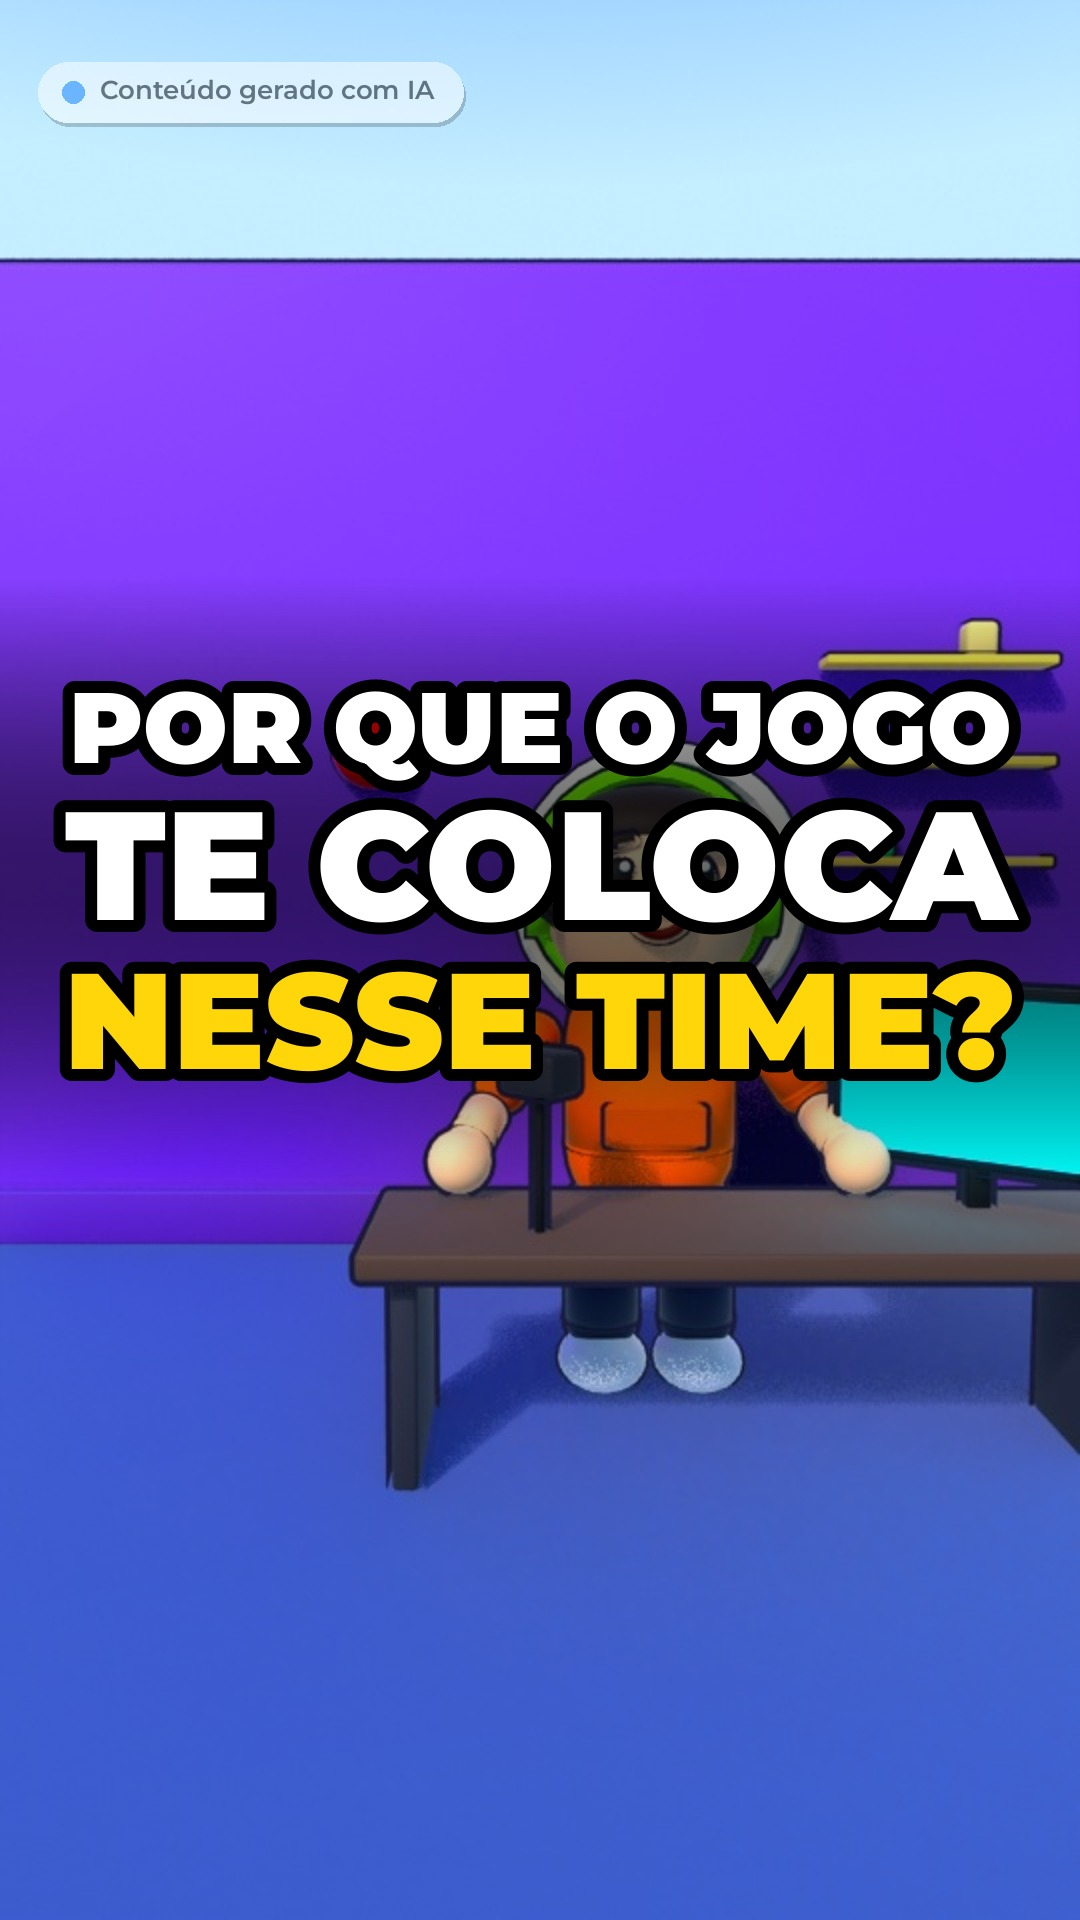
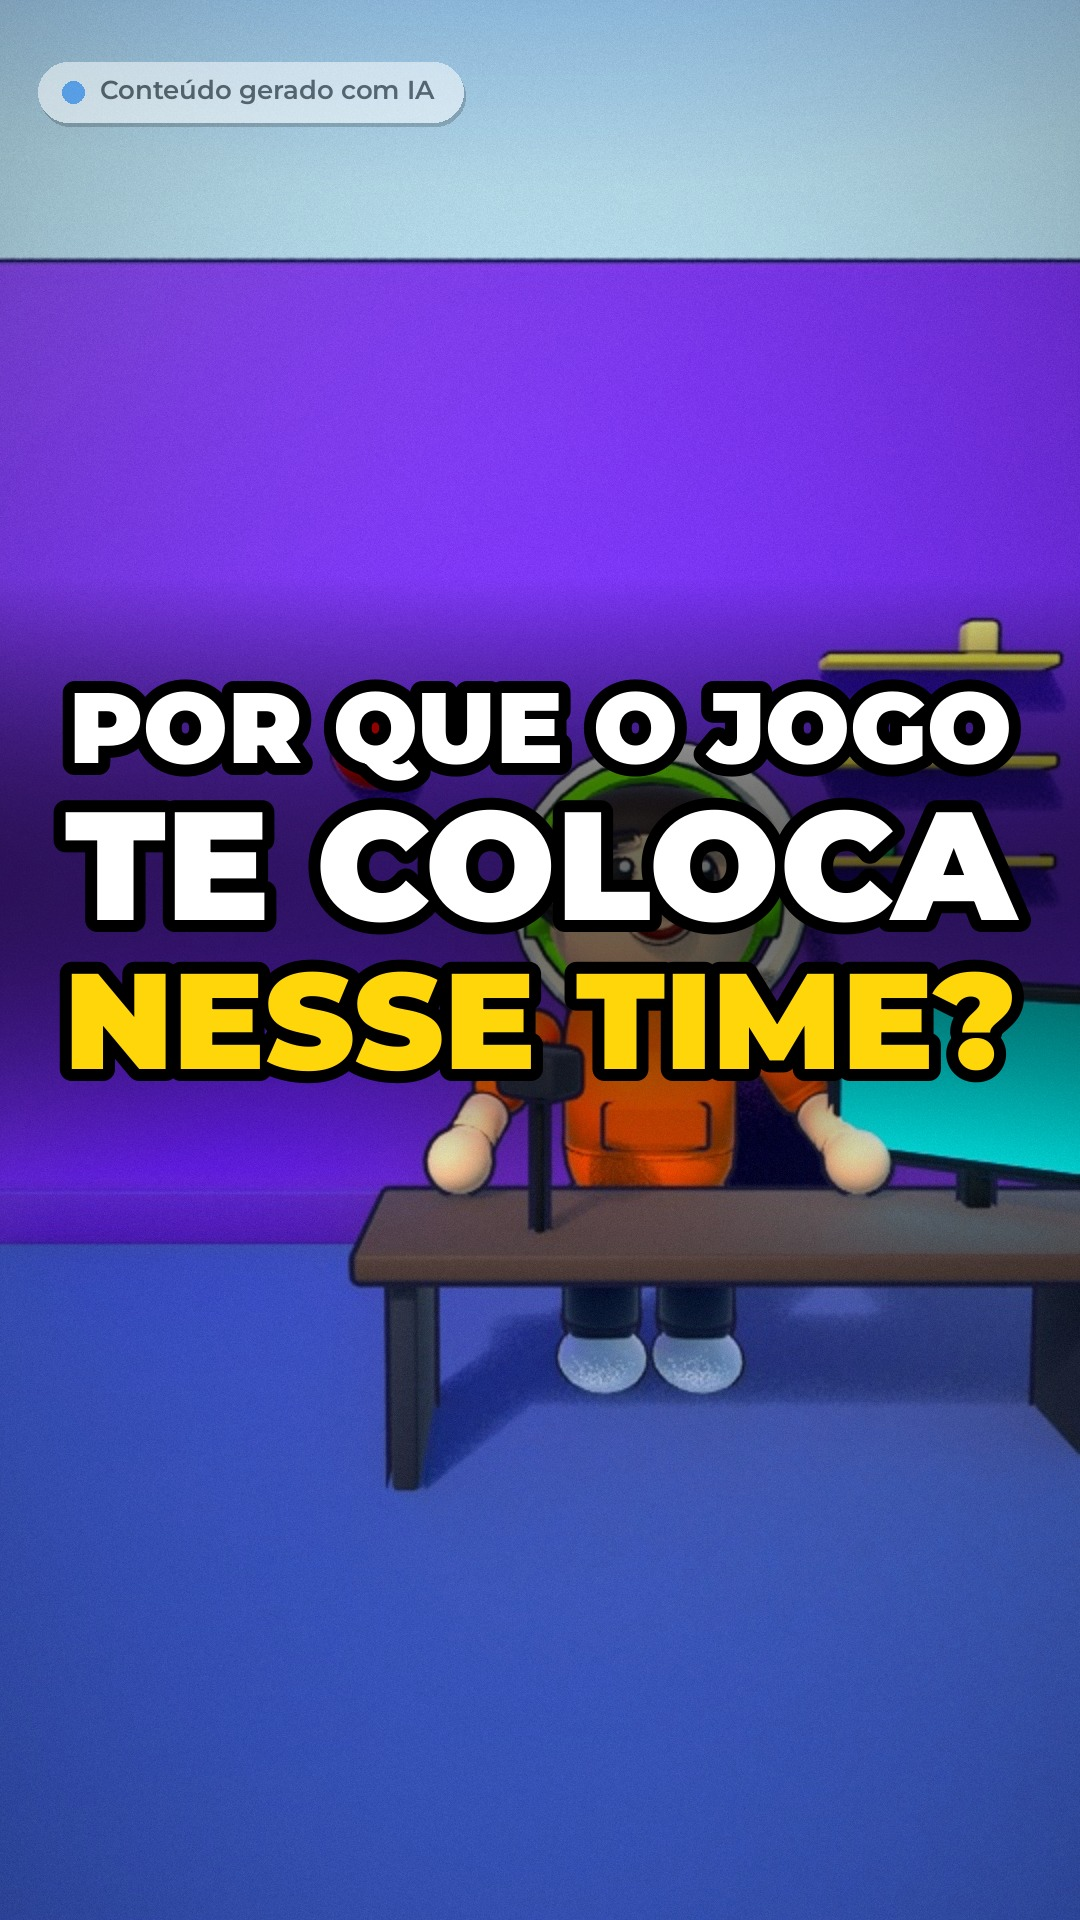
anti-borda: script para vídeos prontos, regra na skill, capa nova do matchmaking
Claude-Session: https://claude.ai/code/session_01DxZEAHQZdMf4bzSp2RLHEv

diff --git a/.claude/skills/games-fase-por-fase/SKILL.md b/.claude/skills/games-fase-por-fase/SKILL.md
@@ -90,3 +90,9 @@ Não agende nada na marca laycmballes (blogId 8357037). A ordem anterior de post
 
 ## MARCAS (decisão final do dono, 26/11)
 Poste SOMENTE na marca **geffersonballes1 (8356514)**. NÃO use a ballestech (8049742), a laycmballes (8357037) nem a marca 4 (8368938). Futebol vai igual aos games: TikTok + YouTube Shorts (category SPORTS) + Facebook + Instagram na 8356514.
+
+## ANTI-BORDA (26/11, alerta do Facebook "seu vídeo tem uma borda")
+Céu liso no topo e chão liso embaixo pareciam tarjas de vídeo reaproveitado e limitaram a distribuição no Facebook.
+O `compor.py` aplica sozinho a `anti_borda` (vinheta suave + grão fixo) em todo vídeo novo (games e guerra).
+Vídeo já pronto/repost: `tiktok-geopolitica/motor/anti_borda_video.sh entrada.mp4 saida.mp4`.
+Na cena, evite uma faixa de cor única de ponta a ponta no topo ou na base (céu com degradê/nuvens, chão com textura).
